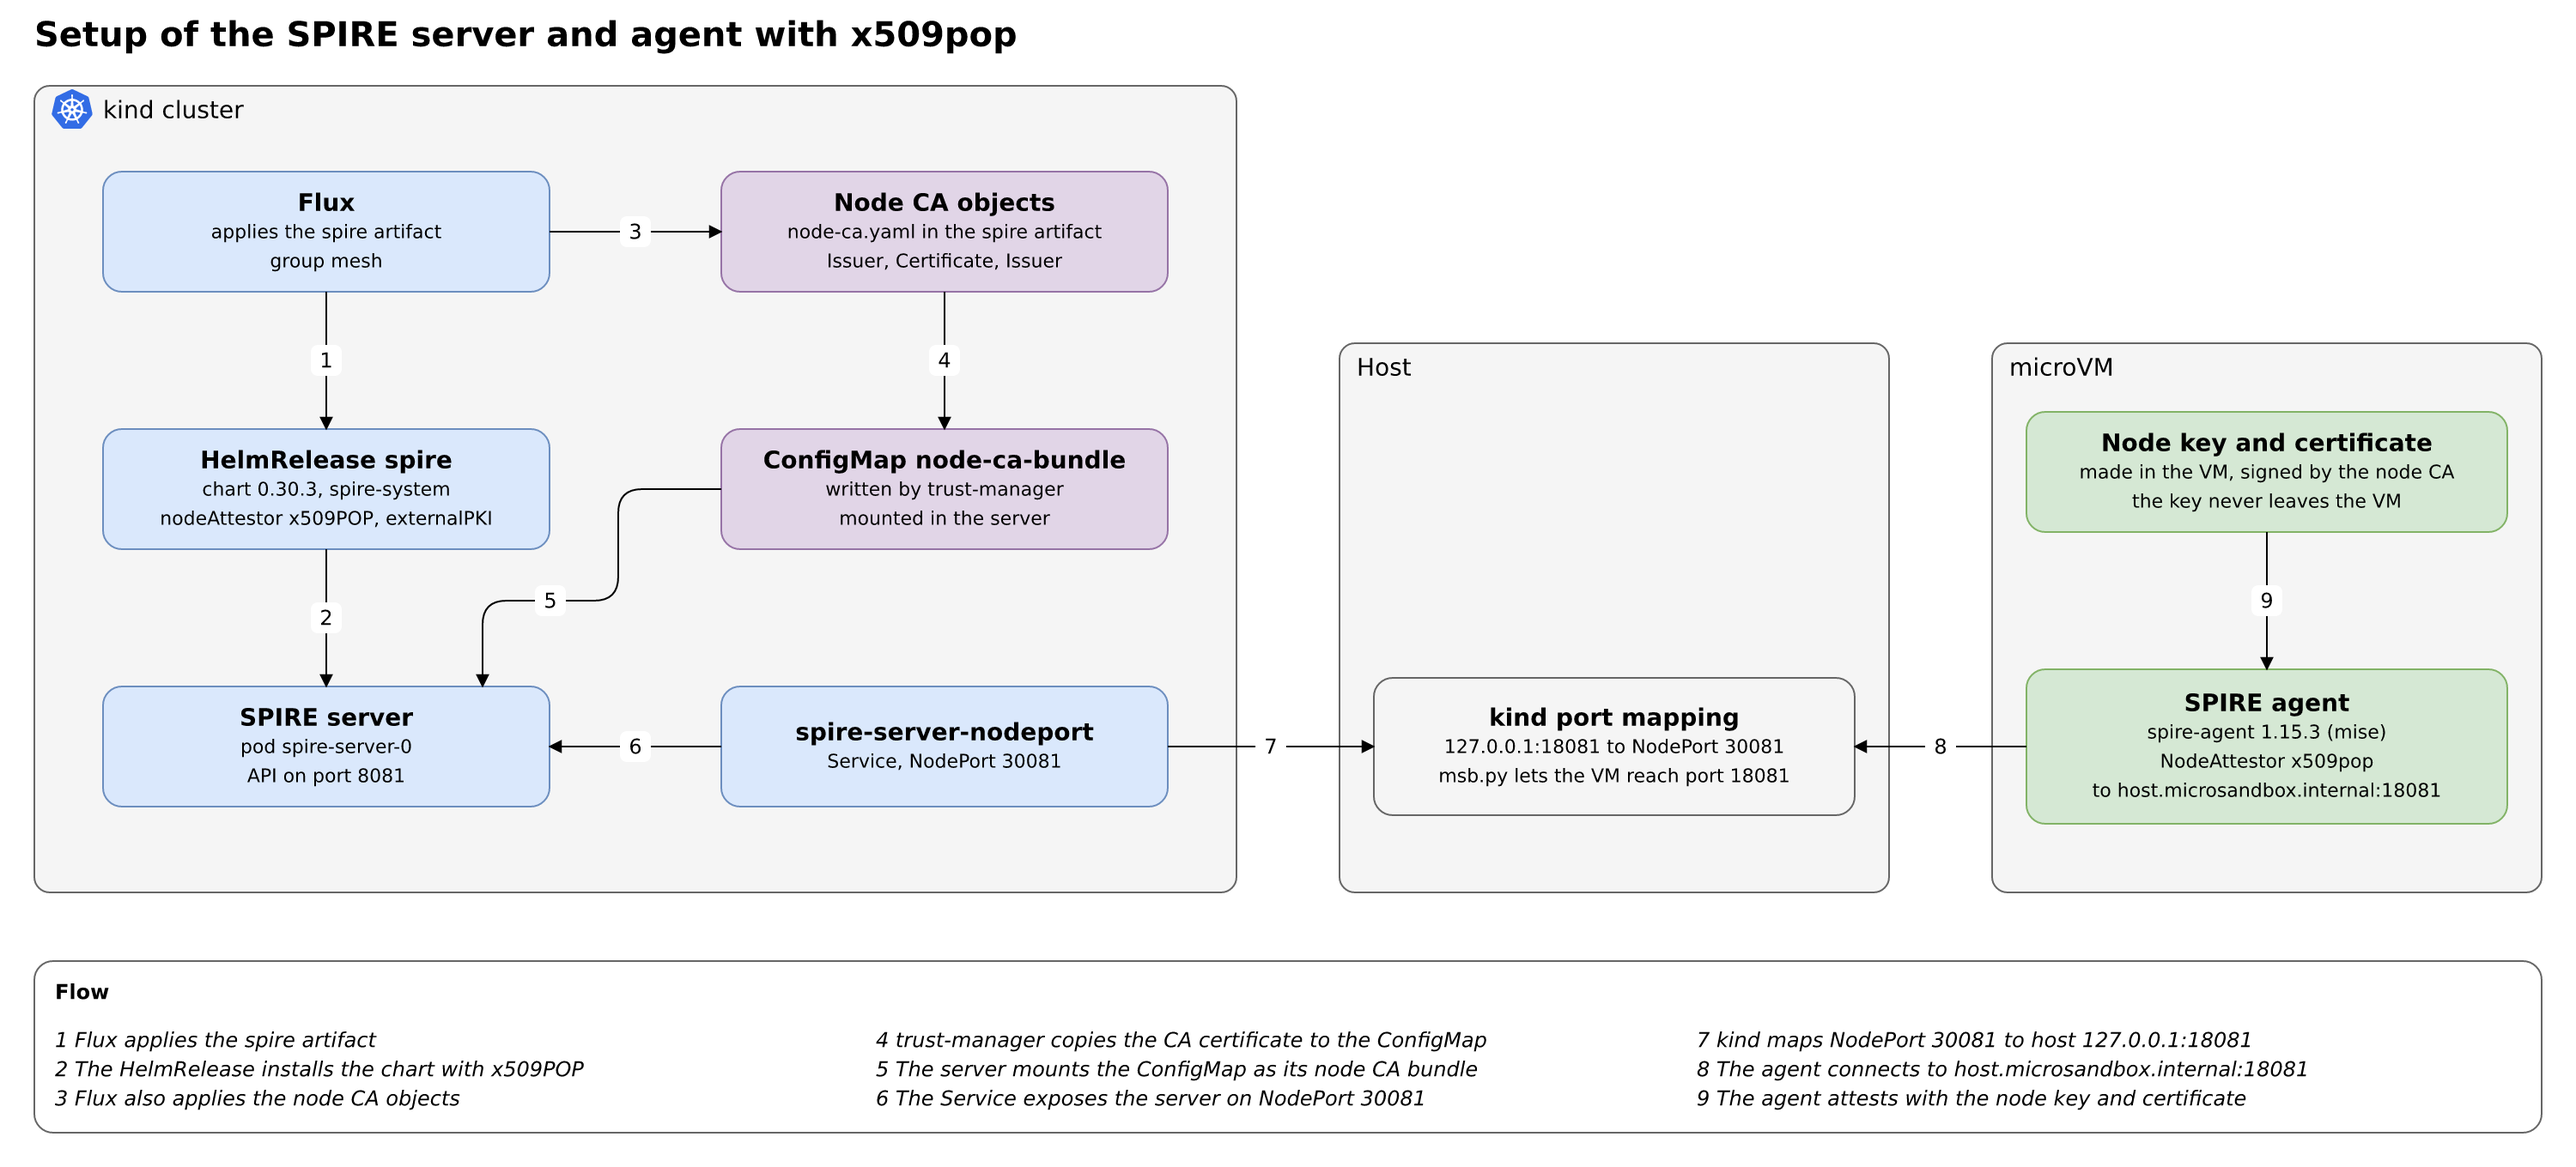
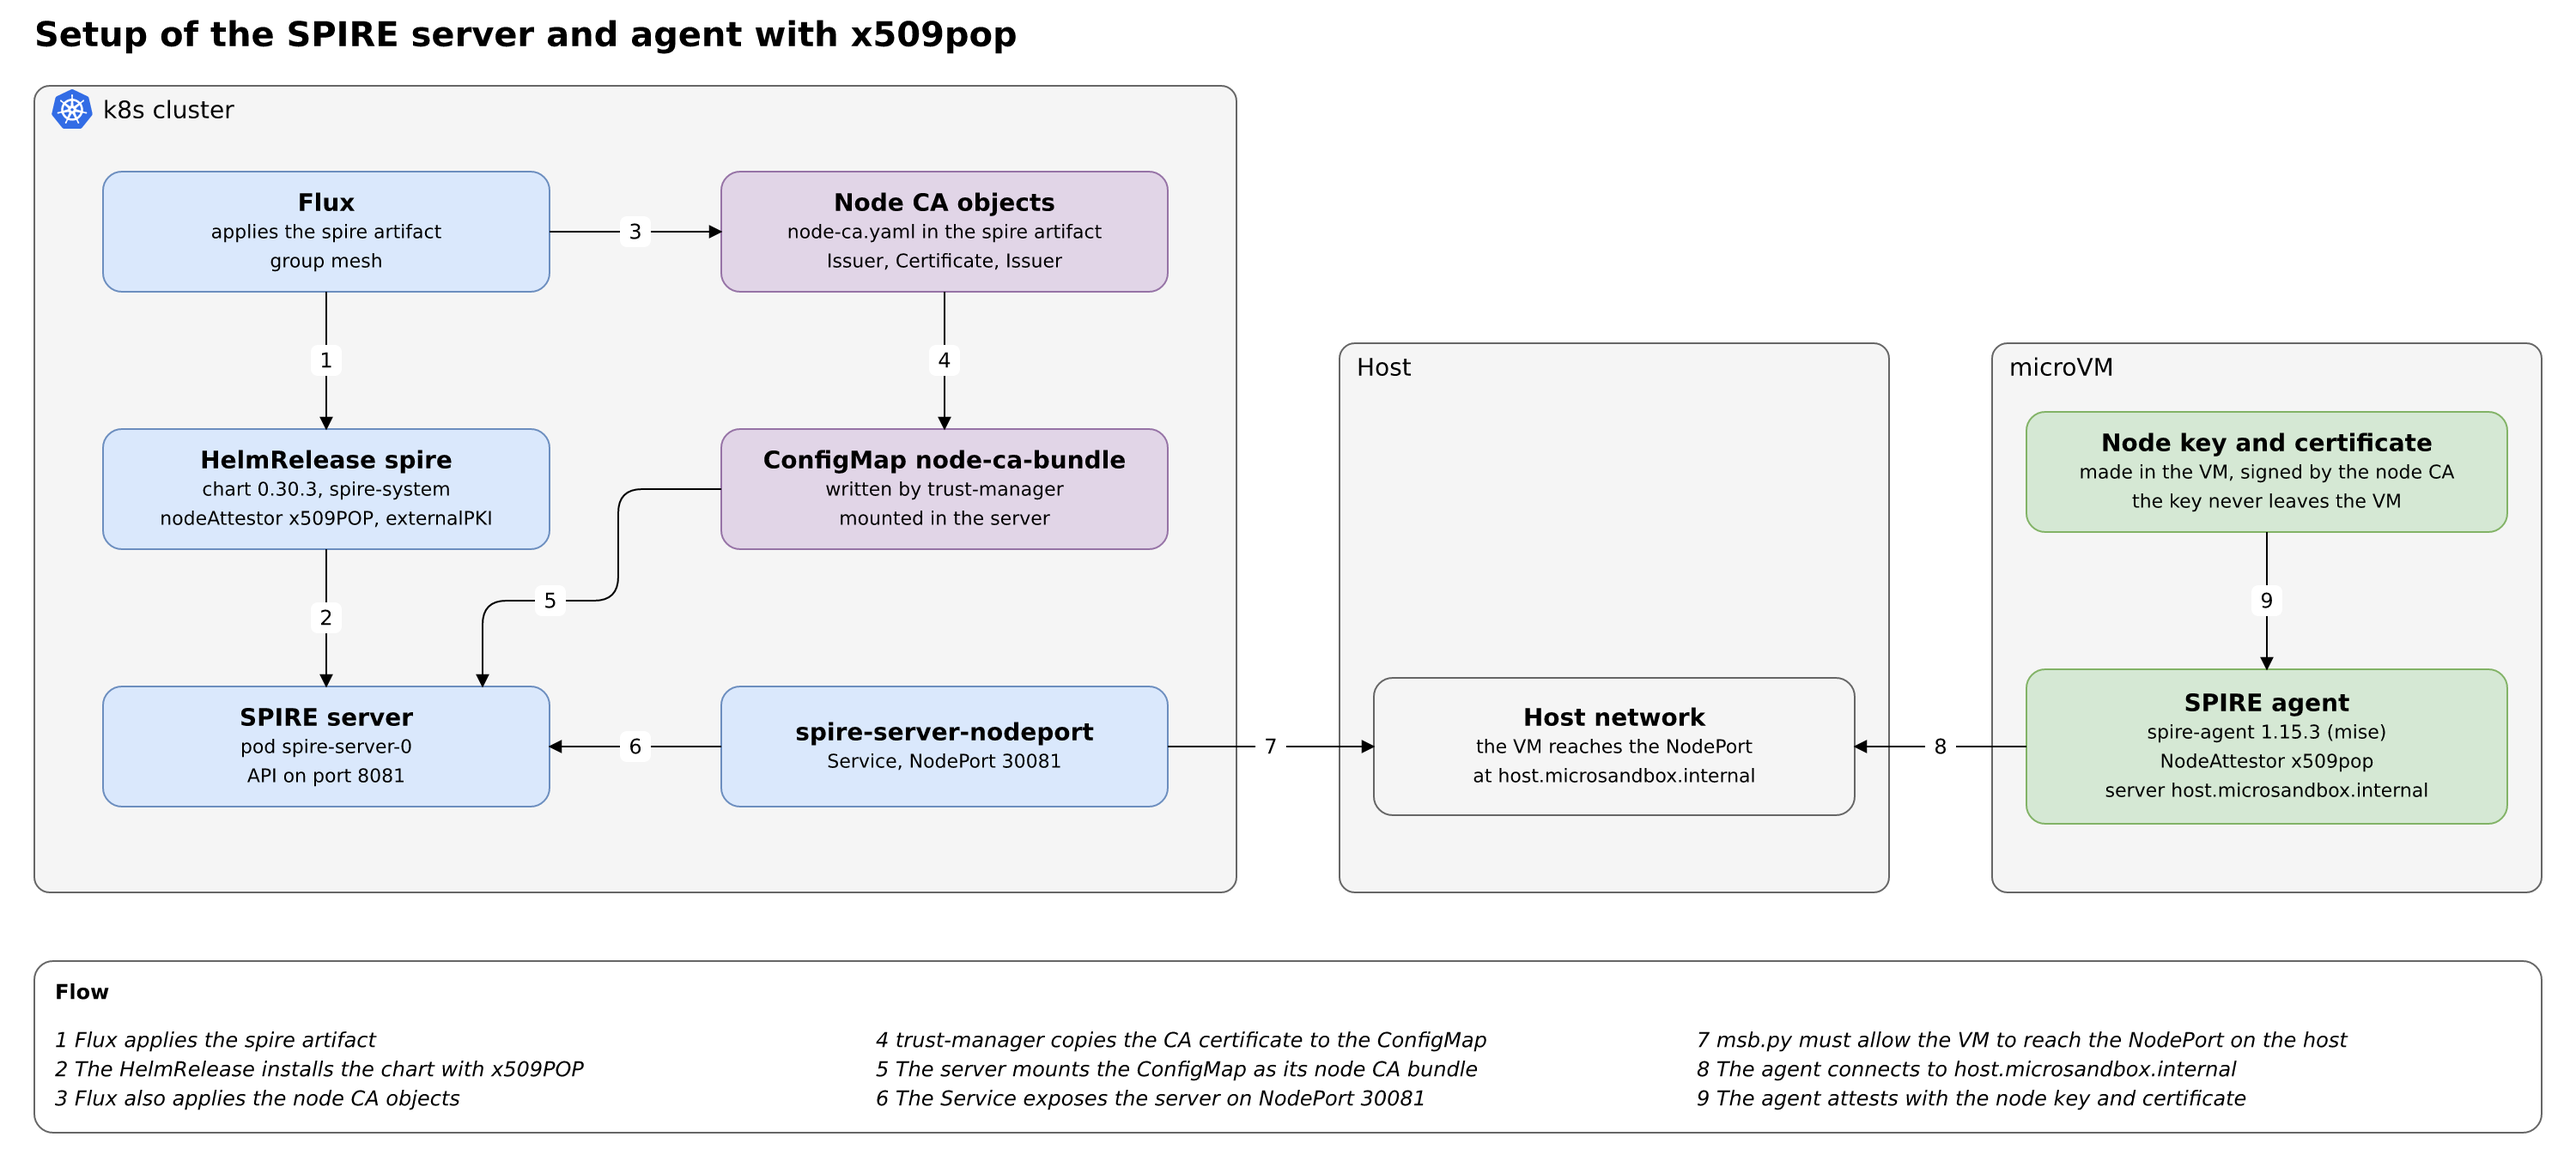
docs: use k8s cluster, not kind, in the node attestation page
The sandbox now uses a k3s cluster, not kind. Name the cluster
generically in the page and in both diagrams.

Remove the kind port mapping and the port 18081 rule from the setup
diagram. The agent now reaches the NodePort of the server through the
host, and msb.py does not allow that port yet.

diff --git a/code/mcp-sandbox/part-3-mcp-guardrails/docs/zero-trust-node-attestation.md b/code/mcp-sandbox/part-3-mcp-guardrails/docs/zero-trust-node-attestation.md
@@ -6,7 +6,7 @@
 
 Node attestation is the first proof in SPIRE. A node proves who it is to the SPIRE server. The server then issues an SVID to the SPIRE agent of that node.
 
-In part 3, the node is the sandbox microVM. The agent that runs in the microVM joins the SPIRE server of the kind cluster. It shows a certificate that a CA of this cluster signed. It also proves that it holds the private key of that certificate.
+In part 3, the node is the sandbox microVM. The agent that runs in the microVM joins the SPIRE server of the Kubernetes (k8s) cluster. It shows a certificate that a CA of this cluster signed. It also proves that it holds the private key of that certificate.
 
 Workload attestation comes after it. A process on the node asks the agent for an SVID, and the agent checks the process. This page covers only the node step.
 
@@ -26,7 +26,7 @@ Node attestation alone blocks no call. It makes the identity. A gateway policy m
 |---|---|
 | SPIFFE ID | A URI that names an identity. Example: `spiffe://mcp.local/spire/agent/x509pop/<fingerprint>`. |
 | SVID | A short-lived X.509 certificate that carries a SPIFFE ID. The SPIRE server signs it. |
-| SPIRE server | The CA of the trust domain `mcp.local`. It runs in the kind cluster, in the namespace `spire-system`. |
+| SPIRE server | The CA of the trust domain `mcp.local`. It runs in the k8s cluster, in the namespace `spire-system`. |
 | SPIRE agent | It runs on the node, here in the microVM. It attests the node, then the workloads on it. |
 | Node CA | A CA that signs node certificates only. It is not the CA of the SPIRE server. cert-manager makes it. |
 | CSR | A certificate signing request. The VM sends its public key and the name it asks for. The private key stays in the VM. |
